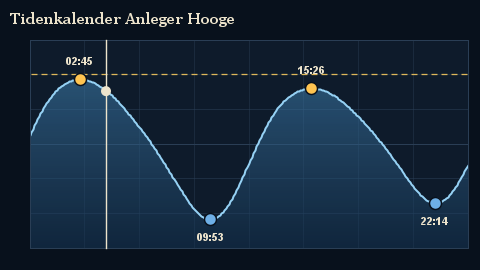
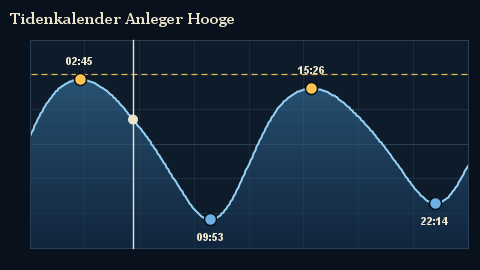
Update

Changed region(s): [[0.1875, 0.1481, 0.3125, 0.9185]]

diff --git a/README.md b/README.md
@@ -114,7 +114,8 @@ tools\bauen.cmd
 ```
 
 `bauen.cmd` baut jedes Projekt mit `ant clean jar` und kopiert `Renderer.jar` und `Steuerhaus.jar` dorthin, wo sie
-gebraucht werden. Die Projekte erwarten in NetBeans eine Java-Plattform mit dem Namen **JDK_21**
+gebraucht werden. Danach legt es das Abbild `HalligHooge.exe` und die Verknüpfung auf dem Desktop neu an
+(`tools\abbild.cmd`, siehe Starten). Die Projekte erwarten in NetBeans eine Java-Plattform mit dem Namen **JDK_21**
 (*Werkzeuge › Java-Plattformen*). Ohne NetBeans setzt man vorher den JDK:
 
 ```bat
@@ -166,11 +167,17 @@ HalligHooge.cmd --szenario sturm
 Die Namen der Szenarien stehen in `src/szenen/Hooge.szenen` (`ruhig`, `sturm`, `seegang`, `sediment`, `xaver`, `live`,
 `morpho`, `kimmung`, `flugsand`, …).
 
-Ein Abbild mit eigener Java-Laufzeit (`dist/abbild/HalligHooge/HalligHooge.exe`) baut das Steuerhaus mit jpackage:
+Ein Abbild mit eigener Java-Laufzeit (`dist/abbild/HalligHooge/HalligHooge.exe`) und gleich eine Verknüpfung
+**HalligHooge** auf dem Desktop legt an:
 
 ```bat
-..\Steuerhaus\tools\abbild.cmd "%CD%" HalligHooge 2.3.0
+tools\abbild.cmd
 ```
+
+Die Version kommt als erster Wert (`tools\abbild.cmd 2.9.0`), sonst gilt die Vorgabe im Skript. Es nimmt
+`dist/HalligHooge.jar`, `dist/lib` und `src/szenen` und ruft dafür `..\Steuerhaus\tools\abbild.cmd` (jpackage, JDK 21).
+`bauen.cmd` ruft es am Ende selbst. *Clean and Build* in NetBeans löscht `dist/abbild`; danach `tools\abbild.cmd`
+einmal doppelklicken. Die App muss dabei geschlossen sein.
 
 Die Daten gehören nicht ins Abbild; es liest sie aus dem Ordner, den `daten =` nennt.
 
@@ -236,7 +243,8 @@ die Protokolldatei `%USERPROFILE%\.steuerhaus\HalligHooge\sammler.log` höchsten
 
 | Datei | Zweck |
 |---|---|
-| `tools/bauen.cmd` | Renderer, Steuerhaus und HalligHooge der Reihe nach bauen |
+| `tools/bauen.cmd` | Renderer, Steuerhaus und HalligHooge der Reihe nach bauen, danach das Abbild |
+| `tools/abbild.cmd` | Abbild `HalligHooge.exe` mit eigener Java-Laufzeit und Verknüpfung auf dem Desktop |
 | `tools/daten_umziehen.cmd`, `tools/daten_zurueck.cmd` | die Daten in das Projekt holen und zurückstellen |
 | `tools/lauf_X1.cmd` … `tools/lauf_DB3.cmd` | Läufe der Stufen mit Prüfungen; sie schreiben nach `docs/status` |
 | `tools/sammler.cmd`, `tools/sammler_aufgabe.cmd` | Messarchiv: Sammler von Hand, stündliche Aufgabe |
